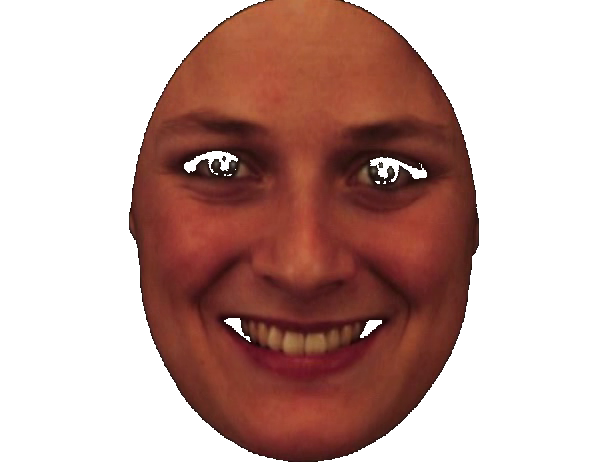
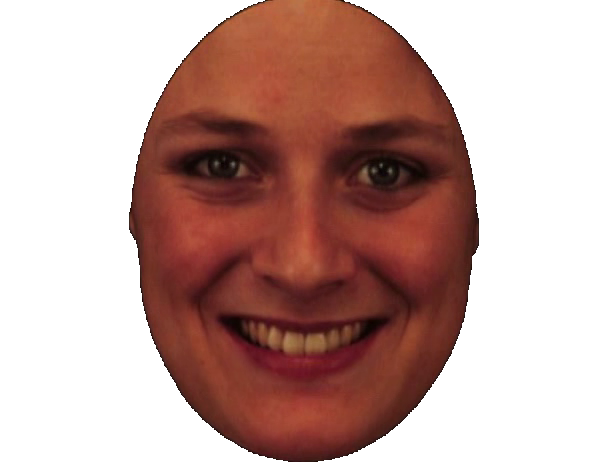
bRMS: fix face background removal, add mock data to teacher
Face backgrounds now removed via flood fill from edges, preserving
dark pixels inside faces (pupils, shadows). Previously threshold-based
removal was removing internal dark pixels too.

Add mock data generator (15 participants × 108 trials) with realistic
BT distributions matching expected bRMS findings (fear < happy < neutral,
upright < inverted). Teacher dashboard gets a Mock Data toggle button.

diff --git a/app/bRMS/teacher/page.tsx b/app/bRMS/teacher/page.tsx
@@ -11,6 +11,7 @@ import {
 import { Eye, Download, Home, RefreshCw } from 'lucide-react';
 import { getSupabase } from '@/lib/supabase';
 import { TrialResult } from '@/types/brms-emotion';
+import { generateMockData } from '@/lib/brms-emotion/mock-data';
 
[1 lines of base64/hex data omitted]
 
@@ -279,6 +280,7 @@ export default function BRMSTeacherPage() {
   const [pwInput, setPwInput] = useState('');
   const [pwError, setPwError] = useState(false);
   const [revealed, setRevealed] = useState<Record<number, boolean>>({});
+  const [useMock, setUseMock] = useState(false);
   const [cleanTrials, setCleanTrials] = useState(false);
   const [cleanParticipants, setCleanParticipants] = useState(false);
   const [aggMode, setAggMode] = useState<AggMode>('median');
@@ -330,6 +332,13 @@ export default function BRMSTeacherPage() {
     setData(kept.length > 0 ? computeDashboard(kept, allRows, agg) : null);
   }, []);
 
+  const loadMockData = useCallback(() => {
+    const rows = generateMockData();
+    setRawRows(rows);
+    recompute(rows, cleanTrials, cleanParticipants, aggMode);
+    setLoading(false);
+  }, [recompute, cleanTrials, cleanParticipants, aggMode]);
+
   const fetchData = useCallback(async () => {
     setRefreshing(true); setError(null);
     try {
@@ -340,7 +349,10 @@ export default function BRMSTeacherPage() {
     finally { setLoading(false); setRefreshing(false); }
   }, [fetchAllRows, recompute, cleanTrials, cleanParticipants, aggMode]);
 
-  useEffect(() => { if (authed) fetchData(); }, [authed, fetchData]);
+  useEffect(() => {
+    if (!authed) return;
+    if (useMock) loadMockData(); else fetchData();
+  }, [authed, useMock, loadMockData, fetchData]);
 
   useEffect(() => {
     if (rawRows.length > 0) recompute(rawRows, cleanTrials, cleanParticipants, aggMode);
@@ -394,11 +406,16 @@ export default function BRMSTeacherPage() {
             {!loading && data && (
               <p className="text-purple-400 font-medium">
                 {data.nParticipants} participant{data.nParticipants !== 1 ? 's' : ''} · {data.nTrials} trials
+                {useMock && <span className="text-amber-400 ml-2">(mock data)</span>}
               </p>
             )}
           </div>
           <div className="flex gap-3 flex-wrap">
-            <button onClick={fetchData} disabled={refreshing}
+            <button onClick={() => setUseMock(v => !v)}
+              className={`px-4 py-2 text-sm rounded-lg border transition-colors ${useMock ? 'bg-amber-500/20 border-amber-400 text-amber-400' : 'bg-gray-800 border-gray-600 text-gray-300 hover:bg-gray-700'}`}>
+              {useMock ? 'Mock Data ON' : 'Mock Data'}
+            </button>
+            <button onClick={fetchData} disabled={refreshing || useMock}
               className="flex items-center gap-2 px-4 py-2 text-sm bg-gray-800 hover:bg-gray-700 text-gray-300 rounded-lg border border-gray-600">
               <RefreshCw className={`w-4 h-4 ${refreshing ? 'animate-spin' : ''}`} /> Refresh
             </button>
@@ -445,7 +462,7 @@ export default function BRMSTeacherPage() {
         {loading ? (
           <p className="text-center text-gray-400 py-20 text-lg">Loading...</p>
         ) : !data || data.nParticipants === 0 ? (
-          <p className="text-center text-gray-500 py-20 text-lg">No data yet</p>
+          <p className="text-center text-gray-500 py-20 text-lg">No data yet — try enabling mock data above</p>
         ) : (
           <div className="flex flex-col gap-6">
 

diff --git a/lib/brms-emotion/mock-data.ts b/lib/brms-emotion/mock-data.ts
@@ -1,0 +1,67 @@
+import { TrialResult } from '@/types/brms-emotion';
+import { IDENTITY_IDS } from './stimuli';
+
+const NAMES = ['Noa', 'Yael', 'Tamar', 'Shira', 'Maya', 'Ori', 'Amit', 'Itai', 'Lior', 'Rotem', 'Omer', 'Talia', 'Dani', 'Gal', 'Yuval'];
+
+const EMOTIONS = ['fearful', 'happy', 'neutral'] as const;
+const ORIENTATIONS = ['upright', 'inverted'] as const;
+const SIDES = ['left', 'right'] as const;
+
+function seededRandom(seed: number) {
+  let s = seed;
+  return () => { s = (s * 16807 + 0) % 2147483647; return s / 2147483647; };
+}
+
+// Baseline BTs in ms per condition (based on typical bRMS findings)
+const BASE_BT: Record<string, Record<string, number>> = {
+  fearful:  { upright: 2800, inverted: 4200 },
+  happy:    { upright: 3200, inverted: 4500 },
+  neutral:  { upright: 3500, inverted: 4800 },
+};
+
+export function generateMockData(): TrialResult[] {
+  const rows: TrialResult[] = [];
+
+  for (let p = 0; p < NAMES.length; p++) {
+    const rng = seededRandom(p * 1000 + 42);
+    const sid = `mock-${p}-${NAMES[p].toLowerCase()}`;
+    const name = NAMES[p];
+    const speedBias = 0.7 + rng() * 0.6; // individual speed factor
+
+    let trialIdx = 0;
+    for (const emotion of EMOTIONS) {
+      for (const orientation of ORIENTATIONS) {
+        for (let t = 0; t < 18; t++) {
+          const baseBT = BASE_BT[emotion][orientation] * speedBias;
+          const noise = baseBT * (0.6 + rng() * 0.8);
+          const rt = Math.round(noise);
+          const side = SIDES[t % 2];
+          const isCorrect = rng() > 0.06;
+          const response = isCorrect ? side : (side === 'left' ? 'right' : 'left');
+          const rescue = rt > 15000;
+
+          rows.push({
+            session_id: sid,
+            participant_name: name,
+            trial_index: trialIdx,
+            emotion,
+            orientation,
+            identity_id: IDENTITY_IDS[t % IDENTITY_IDS.length],
+            stimulus_set: 'real',
+            side_shown: side,
+            side_response: response,
+            is_correct: isCorrect,
+            reaction_time_ms: Math.min(rt, 15000),
+            max_contrast: 70,
+            rescue_triggered: rescue,
+            timing_flag: false,
+            is_practice: false,
+          });
+          trialIdx++;
+        }
+      }
+    }
+  }
+
+  return rows;
+}
